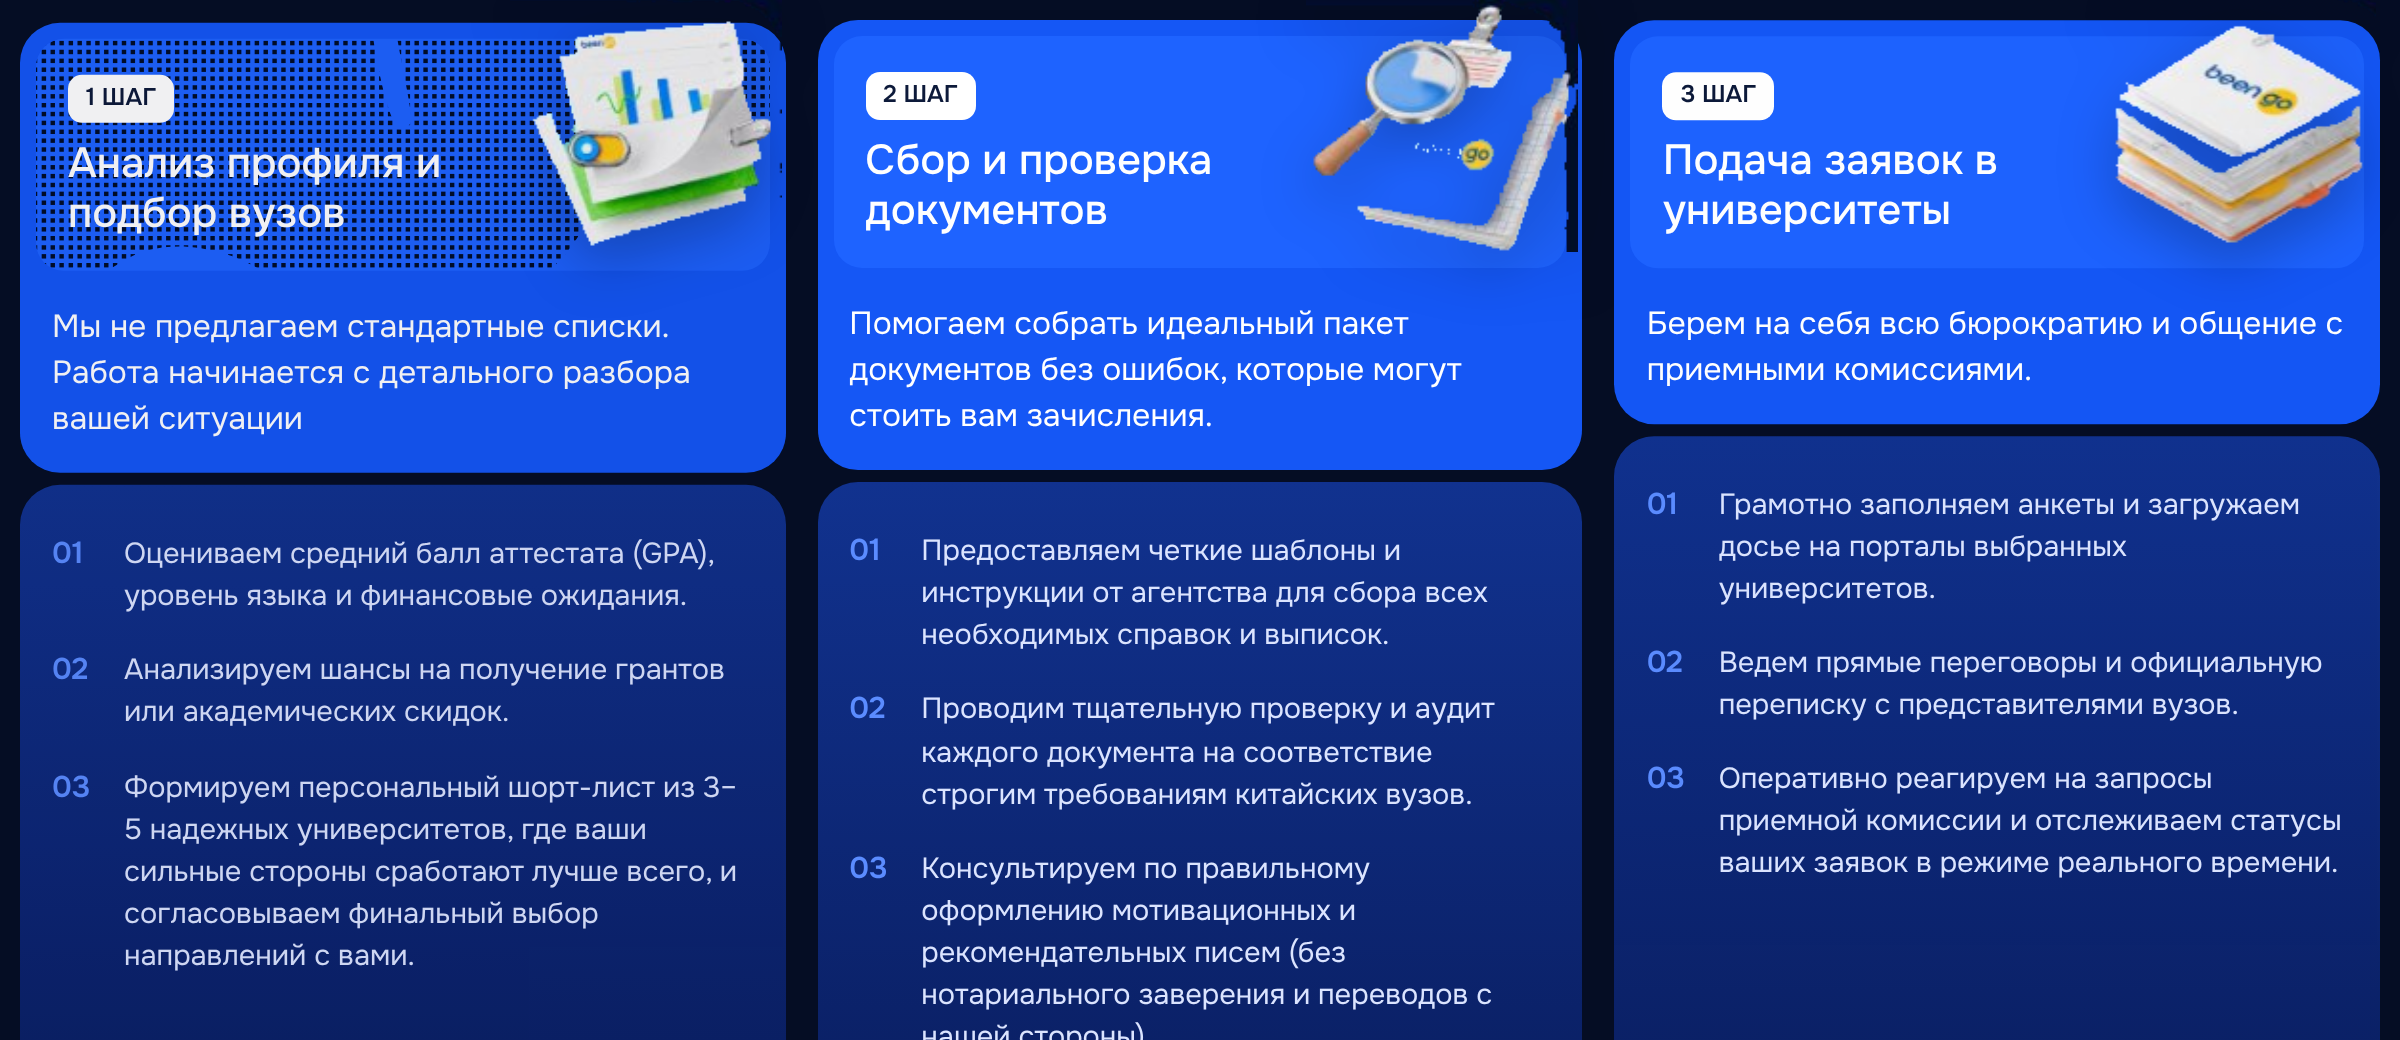
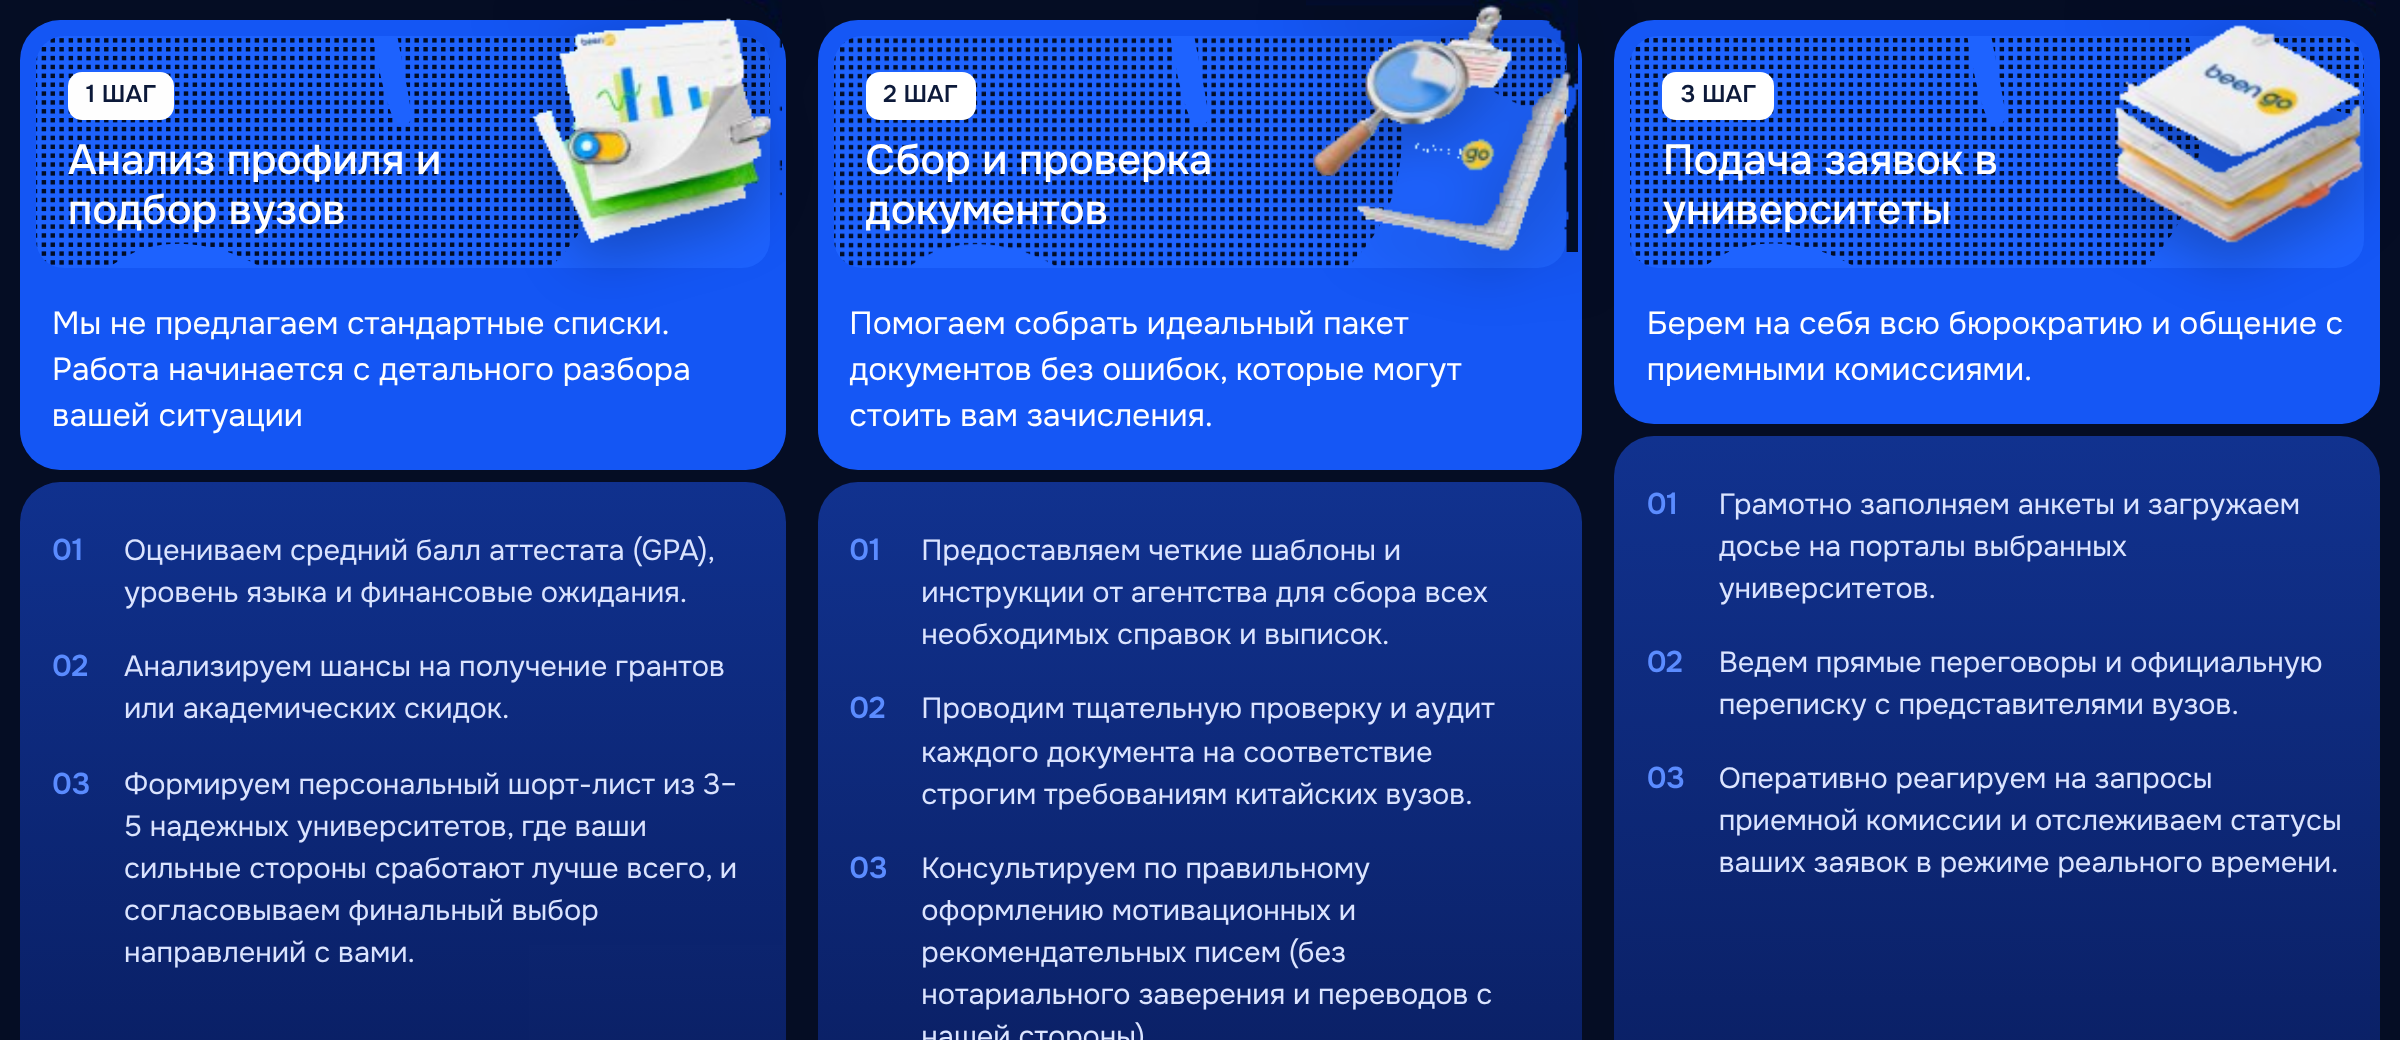
Process: SVG pattern on all step headers, tighter blue band around frame
Claude-Session: https://claude.ai/code/session_01DveQThDXrjAqWsCdBVYsEN

diff --git a/index.html b/index.html
@@ -759,6 +759,11 @@ body{background:#e9eff8}
 .step-head.pat{background-color:#1e63ff;background-image:none;isolation:isolate}
 .step-head.pat::before{content:"";position:absolute;inset:0;border-radius:inherit;background:center/cover no-repeat;z-index:-1;pointer-events:none}
 .step-head.pat1::before{background-image:url(assets/step-bg.svg)}
+
+/* Процесс: меньше синей рамки вокруг тёмного фрейма */
+#process.sec{padding:8px 0}
+.frame.process{width:calc(100% - 16px)}
+@media (max-width:680px){#process.sec{padding:6px 0}.frame.process{width:calc(100% - 12px)}}
 </style>
 </head>
 <body>
@@ -1082,22 +1087,22 @@ body{background:#e9eff8}
           <ol><li>Оцениваем средний балл аттестата (GPA), уровень языка и финансовые ожидания.</li><li>Анализируем шансы на получение грантов или академических скидок.</li><li>Формируем персональный шорт-лист из 3–5 надежных университетов, где ваши сильные стороны сработают лучше всего, и согласовываем финальный выбор направлений с вами.</li></ol>
         </div>
         <div class="step reveal">
-          <div class="step-top"><div class="step-head dots"><span class="n">2 ШАГ</span><h3>Сбор и проверка документов</h3><img src="assets/st2.png" alt=""></div>
+          <div class="step-top"><div class="step-head pat pat1"><span class="n">2 ШАГ</span><h3>Сбор и проверка документов</h3><img src="assets/st2.png" alt=""></div>
             <p>Помогаем собрать идеальный пакет документов без ошибок, которые могут стоить вам зачисления.</p></div>
           <ol><li>Предоставляем четкие шаблоны и инструкции от агентства для сбора всех необходимых справок и выписок.</li><li>Проводим тщательную проверку и аудит каждого документа на соответствие строгим требованиям китайских вузов.</li><li>Консультируем по правильному оформлению мотивационных и рекомендательных писем (без нотариального заверения и переводов с нашей стороны).</li></ol>
         </div>
         <div class="step reveal">
-          <div class="step-top"><div class="step-head dots"><span class="n">3 ШАГ</span><h3>Подача заявок в университеты</h3><img src="assets/st3.png" alt=""></div>
+          <div class="step-top"><div class="step-head pat pat1"><span class="n">3 ШАГ</span><h3>Подача заявок в университеты</h3><img src="assets/st3.png" alt=""></div>
             <p>Берем на себя всю бюрократию и общение с приемными комиссиями.</p></div>
           <ol><li>Грамотно заполняем анкеты и загружаем досье на порталы выбранных университетов.</li><li>Ведем прямые переговоры и официальную переписку с представителями вузов.</li><li>Оперативно реагируем на запросы приемной комиссии и отслеживаем статусы ваших заявок в режиме реального времени.</li></ol>
         </div>
         <div class="step reveal">
-          <div class="step-top"><div class="step-head dots"><span class="n">4 ШАГ</span><h3>Получение приказа о зачислении</h3></div>
+          <div class="step-top"><div class="step-head pat pat1"><span class="n">4 ШАГ</span><h3>Получение приказа о зачислении</h3></div>
             <p>Самый долгожданный этап — подтверждение вашего места в университете.</p></div>
           <ol><li>Получаем официальное письмо о зачислении (Admission Notice) от университета.</li><li>Контролируем выпуск формы JW201/JW202, необходимой для оформления студенческой визы.</li><li>Убеждаемся, что за вами закреплен грант, скидка или место в общежитии (если это было предусмотрено условиями).</li></ol>
         </div>
         <div class="step reveal">
-          <div class="step-top"><div class="step-head dots"><span class="n">5 ШАГ</span><h3>Финальная подготовка к переезду</h3><img src="assets/st5.png" alt="" style="width:clamp(70px,7vw,92px);right:6px"></div>
+          <div class="step-top"><div class="step-head pat pat1"><span class="n">5 ШАГ</span><h3>Финальная подготовка к переезду</h3><img src="assets/st5.png" alt="" style="width:clamp(70px,7vw,92px);right:6px"></div>
             <p>Помогаем спокойно собраться и уверенно стартовать в новой стране.</p></div>
           <ol><li>Подготавливаем вас к самостоятельному получению визы и комфортному старту в Китае.</li><li>Даем памятку по покупке билетов, сборам чемодана и правилам въезда в страну.</li><li>Консультируем по первым шагам после прибытия в Китай: регистрация в кампусе, заселение и подключение местной связи.</li></ol>
         </div>
